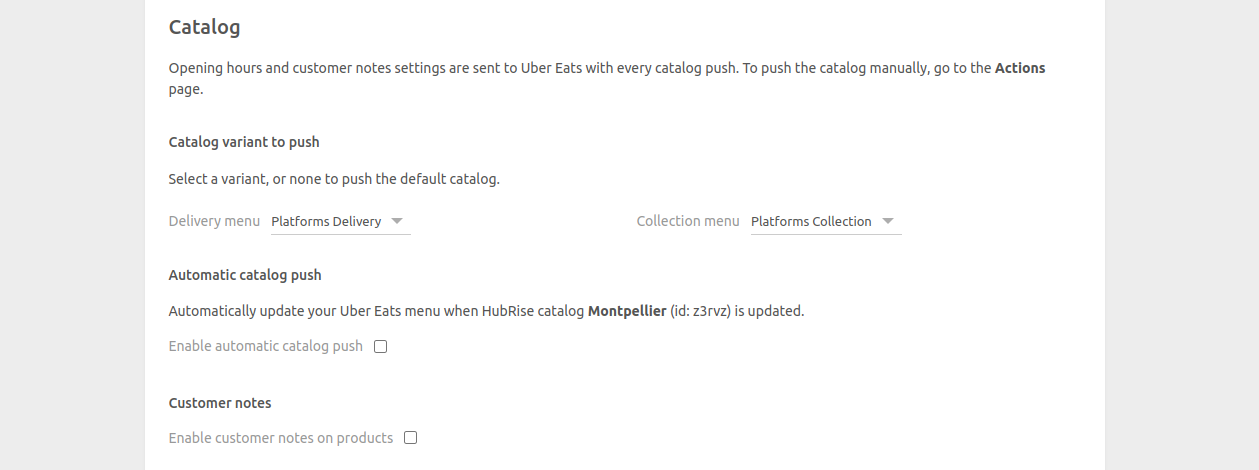
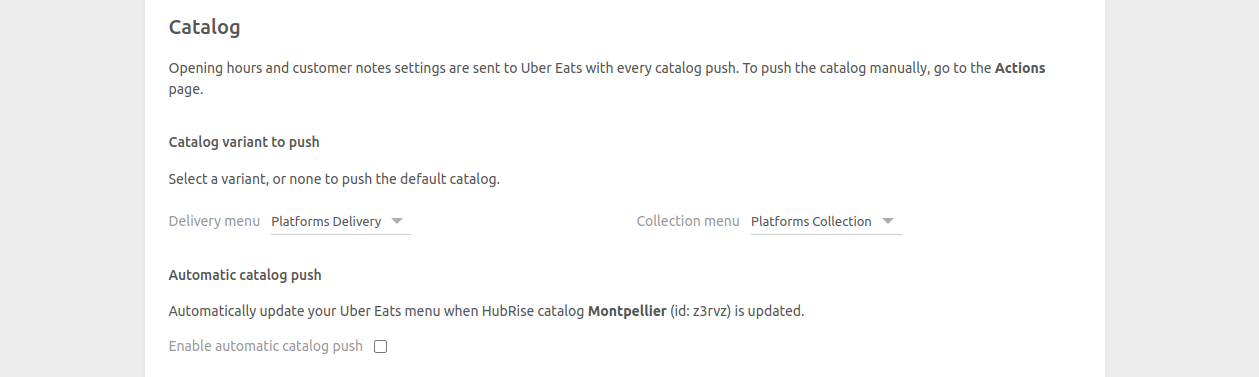
[Uber Eats] Product notes can no longer be enabled via the bridge

diff --git a/content/apps/lightspeed-restaurant/fr/food-ordering-platforms.md b/content/apps/lightspeed-restaurant/fr/food-ordering-platforms.md
@@ -195,6 +195,5 @@ Sur la page de configuration d'Uber Eats Bridge, utilisez les paramètres suivan
 | Paiements           | Code ref paiement en ligne                                  | `UEPM`                                                                             |
 | Paiements           | Code ref paiement en espèces                                | (laisser vide)                                                                     |
 | Clients             | Code d'accès au téléphone en double dans [...]              | Cochez cette case                                                                  |
-| Catalogue           | Activer les notes de préparation du client sur les produits | Cochez la case pour les activer.                                                   |
 
 (\*) Ne s'applique que si vous proposez des articles jetables tels que des couverts, des serviettes, etc.

diff --git a/content/apps/clyo/fr/food-delivery-platforms.md b/content/apps/clyo/fr/food-delivery-platforms.md
@@ -113,7 +113,6 @@ Dans la page de configuration de Uber Eats Bridge, utilisez les paramètres suiv
 | Paiements           | Code ref paiement en ligne                        | Créer un type de règlement dans Clyo Systems et utiliser son code ref.            |
 | Paiements           | Code ref paiement en espèces                      | (laisser vide)                                                                    |
 | Statuts de commande | Marquer les commandes comme Acceptées             | `lorsque leur statut HubRise passe à "Reçue"`                                     |
-| Menu                | Activer les notes de préparation sur les articles | Cocher si vous souhaitez les activer / Laisser la case décochée                   |
 
 (\*) Applicable uniquement si vous proposez des jetables, tels que des couverts, serviettes, etc.
 

diff --git a/content/apps/pos-helper/fr/food-delivery-platforms.md b/content/apps/pos-helper/fr/food-delivery-platforms.md
@@ -121,7 +121,6 @@ Dans la page de configuration de Uber Eats Bridge, utilisez les paramètres suiv
 | Paiements           | Code ref paiement en ligne                   | `ONLINE`                                                                   |
 | Paiements           | Code ref paiement en espèces                 | (laisser vide)                                                             |
 | Clients             | Dupliquer le code d'accès téléphone [...]    | Cocher cette case                                                          |
-| Menu                | Activer les notes de préparation [...]       | Laisser la case décochée                                                   |
 
 (\*) Applicable uniquement si vous proposez des jetables, tels que des couverts, serviettes, etc.
 

diff --git a/APPS-TEMPLATE/fr/food-delivery-platforms.md b/APPS-TEMPLATE/fr/food-delivery-platforms.md
@@ -124,7 +124,6 @@ Dans la page de configuration de Uber Eats Bridge, utilisez les paramètres suiv
 | Paiements           | Code ref paiement en ligne                   | (laisser vide)                                                           |
 | Paiements           | Code ref paiement en espèces                 | (laisser vide)                                                           |
 | Clients             | Dupliquer le code d'accès téléphone [...]    | Laisser la case décochée                                                 |
-| Catalogue           | Activer les notes de préparation [...]       | Cocher si vous souhaitez les activer / Laisser la case décochée          |
 
 (\*) Applicable uniquement si vous proposez des jetables, tels que des couverts, serviettes, etc.
 

diff --git a/content/apps/mealenium/fr/food-ordering-platforms.md b/content/apps/mealenium/fr/food-ordering-platforms.md
@@ -80,6 +80,5 @@ Dans la page de configuration de Uber Eats Bridge, utilisez les paramètres suiv
 | Paiements           | Code ref paiement en ligne                   | (laisser vide)                                                            |
 | Paiements           | Code ref paiement en espèces                 | (laisser vide)                                                            |
 | Clients             | Dupliquer le code d'accès téléphone [...]    | Laisser la case décochée                                                  |
-| Catalogue           | Activer les notes de préparation [...]       | Cocher si vous souhaitez les activer / Laisser la case décochée           |
 
 (\*) Applicable uniquement si vous proposez des jetables, tels que des couverts, serviettes, etc.

diff --git a/content/apps/adipos/fr/food-delivery-platforms.md b/content/apps/adipos/fr/food-delivery-platforms.md
@@ -124,7 +124,6 @@ Dans la page de configuration de Uber Eats Bridge, utilisez les paramètres suiv
 | Paiements           | Code ref paiement en ligne                   | `UBEREATS`                                                             |
 | Paiements           | Code ref paiement en espèces                 | (laisser vide)                                                         |
 | Clients             | Dupliquer le code d'accès téléphone [...]    | Cocher cette case                                                      |
-| Menu                | Activer les notes de préparation [...]       | Laisser la case décochée                                               |
 
 (\*) Applicable uniquement si vous proposez des jetables, tels que des couverts, serviettes, etc.
 

diff --git a/content/apps/popina/fr/food-delivery-platforms.md b/content/apps/popina/fr/food-delivery-platforms.md
@@ -114,6 +114,5 @@ Dans la page de configuration de Uber Eats Bridge, utilisez les paramètres suiv
 | Paiements           | Code ref paiement en ligne                   | Créer un mode de paiement dans Popina et utiliser son code ref.        |
 | Paiements           | Code ref paiement en espèces                 | (laisser vide)                                                         |
 | Clients             | Dupliquer le code d'accès téléphone [...]    | Laisser la case décochée                                               |
-| Catalogue           | Activer les notes de préparation [...]       | Cocher si vous souhaitez les activer                                   |
 
 (\*) Applicable uniquement si vous proposez des jetables, tels que des couverts, serviettes, etc.

diff --git a/content/apps/nestor/fr/food-delivery-platforms.md b/content/apps/nestor/fr/food-delivery-platforms.md
@@ -108,6 +108,5 @@ Dans la page de configuration de Uber Eats Bridge, utilisez les paramètres suiv
 | Paiements           | Code ref paiement en ligne                   | `UE`                                                                   |
 | Paiements           | Code ref paiement en espèces                 | (laisser vide)                                                         |
 | Clients             | Dupliquer le code d'accès téléphone [...]    | Cocher cette case                                                      |
-| Menu                | Activer les notes de préparation [...]       | Cocher si vous souhaitez les activer                                   |
 
 (\*) Applicable uniquement si vous proposez des jetables, tels que des couverts, serviettes, etc.

diff --git a/content/apps/leo2/fr/food-delivery-platforms.md b/content/apps/leo2/fr/food-delivery-platforms.md
@@ -114,6 +114,5 @@ Dans la page de configuration de Uber Eats Bridge, utilisez les paramètres suiv
 | Paiements           | Code ref paiement en ligne                   | Créer un mode de règlement dans LEO2 et utiliser son code ref.       |
 | Paiements           | Code ref paiement en espèces                 | (laisser vide)                                                       |
 | Clients             | Dupliquer le code d'accès téléphone [...]    | Cocher cette case                                                    |
-| Menu                | Activer les notes de préparation [...]       | Cocher si vous souhaitez les activer                                 |
 
 (\*) Applicable uniquement si vous proposez des jetables, tels que des couverts, serviettes, etc.

diff --git a/content/apps/ultimapos/fr/food-delivery-platforms.md b/content/apps/ultimapos/fr/food-delivery-platforms.md
@@ -98,6 +98,5 @@ Dans la page de configuration de Uber Eats Bridge, utilisez les codes ref suivan
 | Paiements           | Code ref paiement en ligne                   | Créer un règlement `Uber Eats` et utiliser son identifiant.        |
 | Paiements           | Code ref paiement en espèces                 | (laisser vide)                                                     |
 | Clients             | Dupliquer le code d'accès téléphone [...]    | Cocher cette case                                                  |
-| Menu                | Activer les notes de préparation [...]       | Cocher si vous souhaitez les activer                               |
 
 (\*) Applicable uniquement si vous proposez des jetables, tels que des couverts, serviettes, etc.

diff --git a/content/apps/lightspeed-restaurant/en/food-ordering-platforms.md b/content/apps/lightspeed-restaurant/en/food-ordering-platforms.md
@@ -196,6 +196,5 @@ In the Uber Eats Bridge configuration page, use the following settings:
 | Payments       | Online payment ref code               | `UEPM`                                                                   |
 | Payments       | Cash payment ref code                 | (leave empty)                                                            |
 | Customers      | Duplicate phone access code in [...]  | Tick this box                                                            |
-| Catalog        | Enable customer notes on products     | Tick if you wish to enable them                                          |
 
 (\*) Only applies if you offer disposable items, such as cutlery, napkins, etc.

diff --git a/content/apps/miipos/fr/food-delivery-platforms.md b/content/apps/miipos/fr/food-delivery-platforms.md
@@ -126,6 +126,5 @@ Dans la page de configuration de Uber Eats Bridge, utilisez les paramètres suiv
 | Paiements           | Code ref paiement en ligne                   | (laisser vide)                                 |
 | Paiements           | Code ref paiement en espèces                 | (laisser vide)                                 |
 | Clients             | Dupliquer le code d'accès téléphone [...]    | Cocher cette case                              |
-| Menu                | Activer les notes de préparation [...]       | Cocher si vous souhaitez les activer           |
 
 (\*) Applicable uniquement si vous proposez des jetables, tels que des couverts, serviettes, etc.
